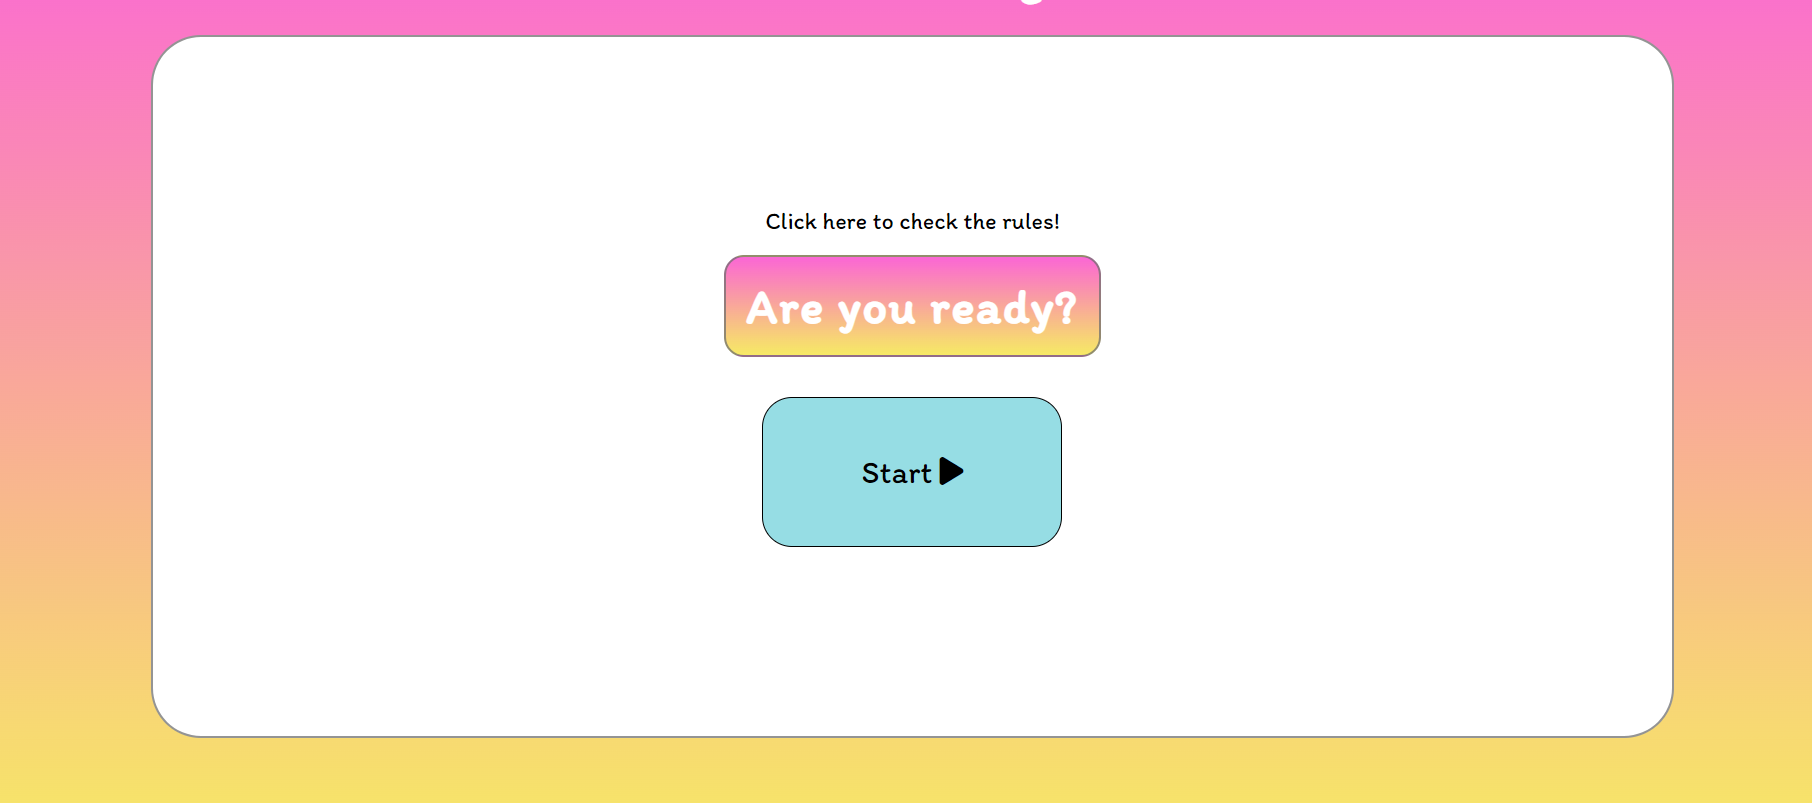
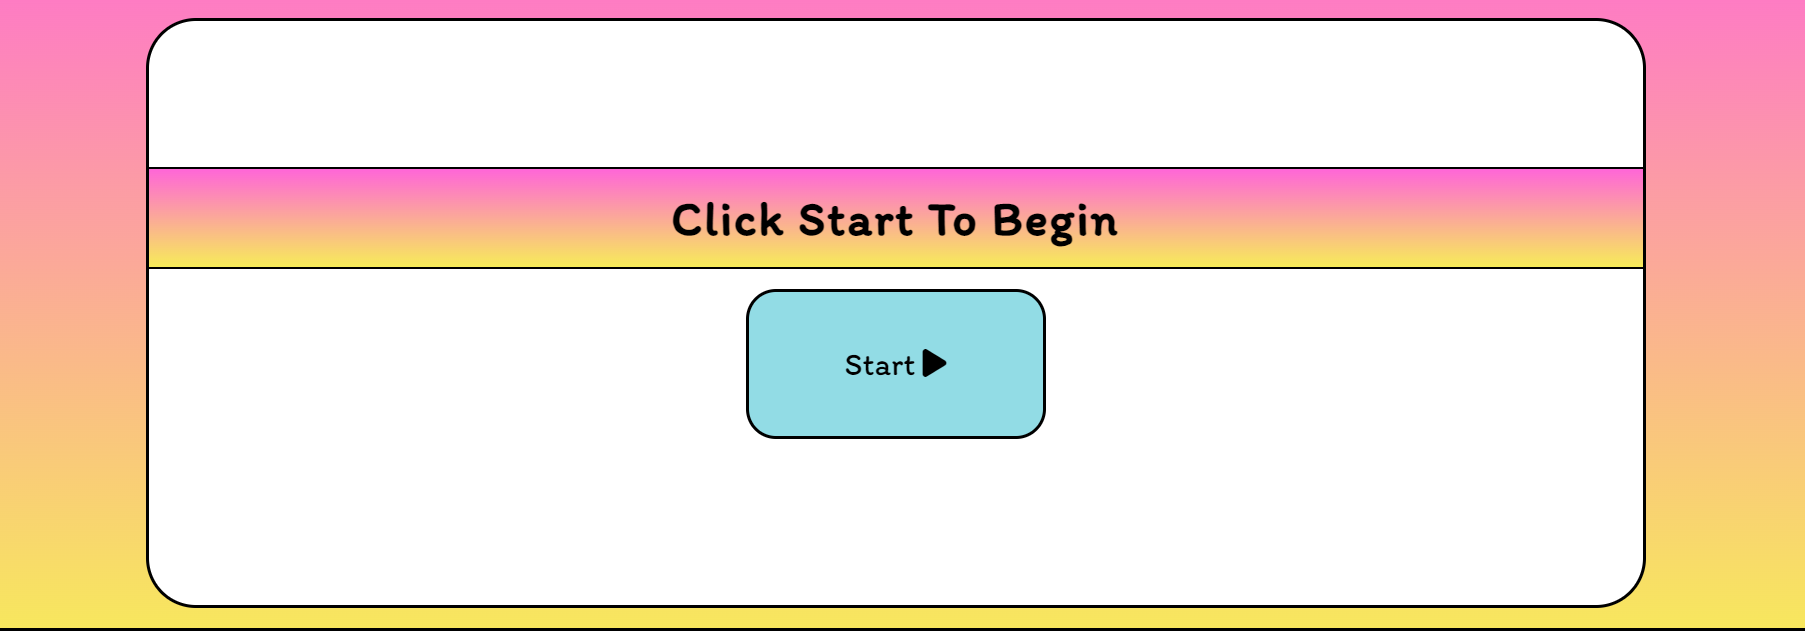
Add updated images to readme file, edit main features

Changed region(s): [[0.062, 0.0, 0.9307, 0.9635], [0.0, 0.9937, 1.0, 1.0], [0.4654, 0.542, 0.5274, 0.6022]]

diff --git a/assets/css/styles.css b/assets/css/styles.css
@@ -223,6 +223,9 @@ footer {
     footer {
         position: relative;
     }
+    .rules {
+        margin: 20px 0 0 20px;
+    }
 }
 
 @media screen and (min-width: 650px) {

diff --git a/README.md b/README.md
@@ -7,17 +7,23 @@
 Website's main goal is entertaining the user and encouraging the user to play. The website is targeted towards everyone above 10 years of age. General Knowledge Quiz offers the user a fun way to learn and improve their knowledge.
 -----
 ## Main Features
-- __Front Page__
+- __Navigation__
 
-  - The front page consists of a title at the top that tells the user the name of the quiz.
+  - The front page consists of a navigation bar at the top where a user can see the name of the quiz and a logo, also there is a Rulebook on the left of the screen where a user can check the rules of the game.
   ![App Screenshot](wireframes/images/title-quiz.png)
 
 - __Landing Page__
 
-  - The landing page consists of a white box, a hyperlink to check the rules is apparent and the Start button.
-    - The hyperlink underlines on the hover and the start button changes size, the mouse also changes to pointer, it's easy for user to know where to click for relevant information.
+  - The landing page consists of a main white box where all the content is and the start button.
+    - There is a text line "Click Start To Begin" which tells the user to click on the button to start the game.
 
 ![App Screenshot](wireframes/images/front-page.png)
+
+- __Footer__
+
+  - The footer is on the bottom of the page it contains general information of which year the quiz was made.
+    
+![App Screenshot](wireframes/images/footer-quiz.png)
 
  ## First Time Visitor Goals
 -   ### User stories
